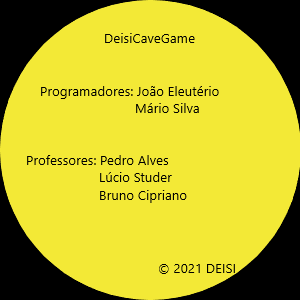
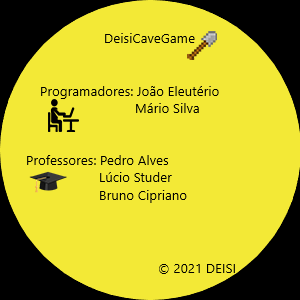
Mudei os Créditos

Changed region(s): [[0.15, 0.33, 0.27, 0.45], [0.09, 0.57, 0.24, 0.66], [0.6, 0.09, 0.72, 0.21]]

diff --git a/src/pt/ulusofona/lp2/deisiGreatGame/GameManager.java b/src/pt/ulusofona/lp2/deisiGreatGame/GameManager.java
@@ -311,11 +311,11 @@ public class GameManager {
         JPanel a = new JPanel();
         ImageIcon background=new ImageIcon("src\\images\\Creditos300x300.png");
         Image img=background.getImage();
-        Image temp=img.getScaledInstance(285,265,Image.SCALE_FAST);
+        Image temp=img.getScaledInstance(300,300,Image.SCALE_FAST);
         background=new ImageIcon(temp);
         JLabel back=new JLabel(background);
         back.setLayout(null);
-        back.setBounds(0,0,250,250);
+        back.setBounds(0,0,300,300);
         a.add(back);
         return a;
     }
